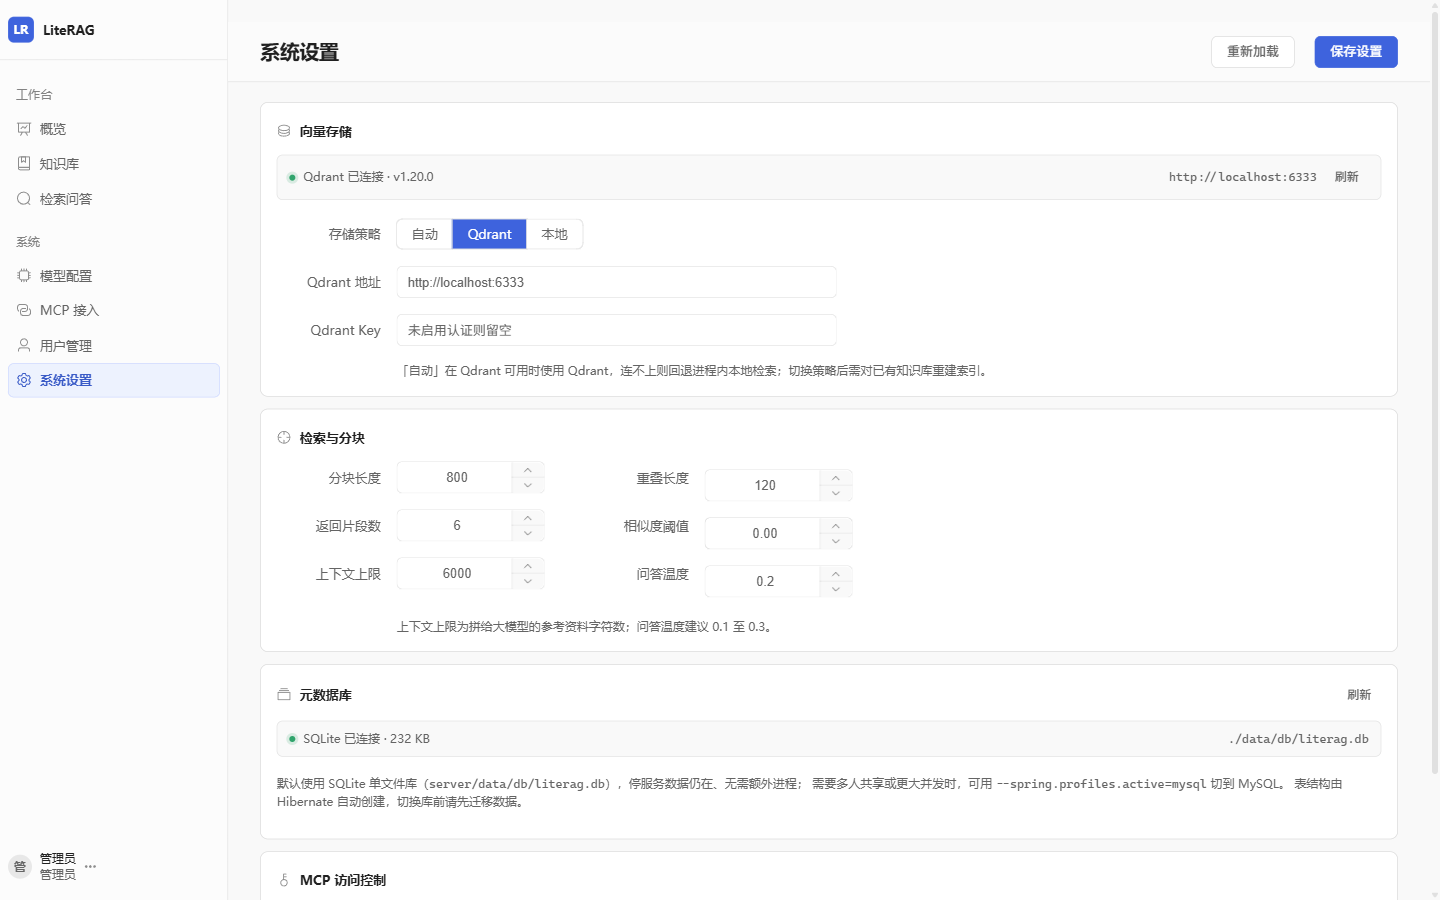
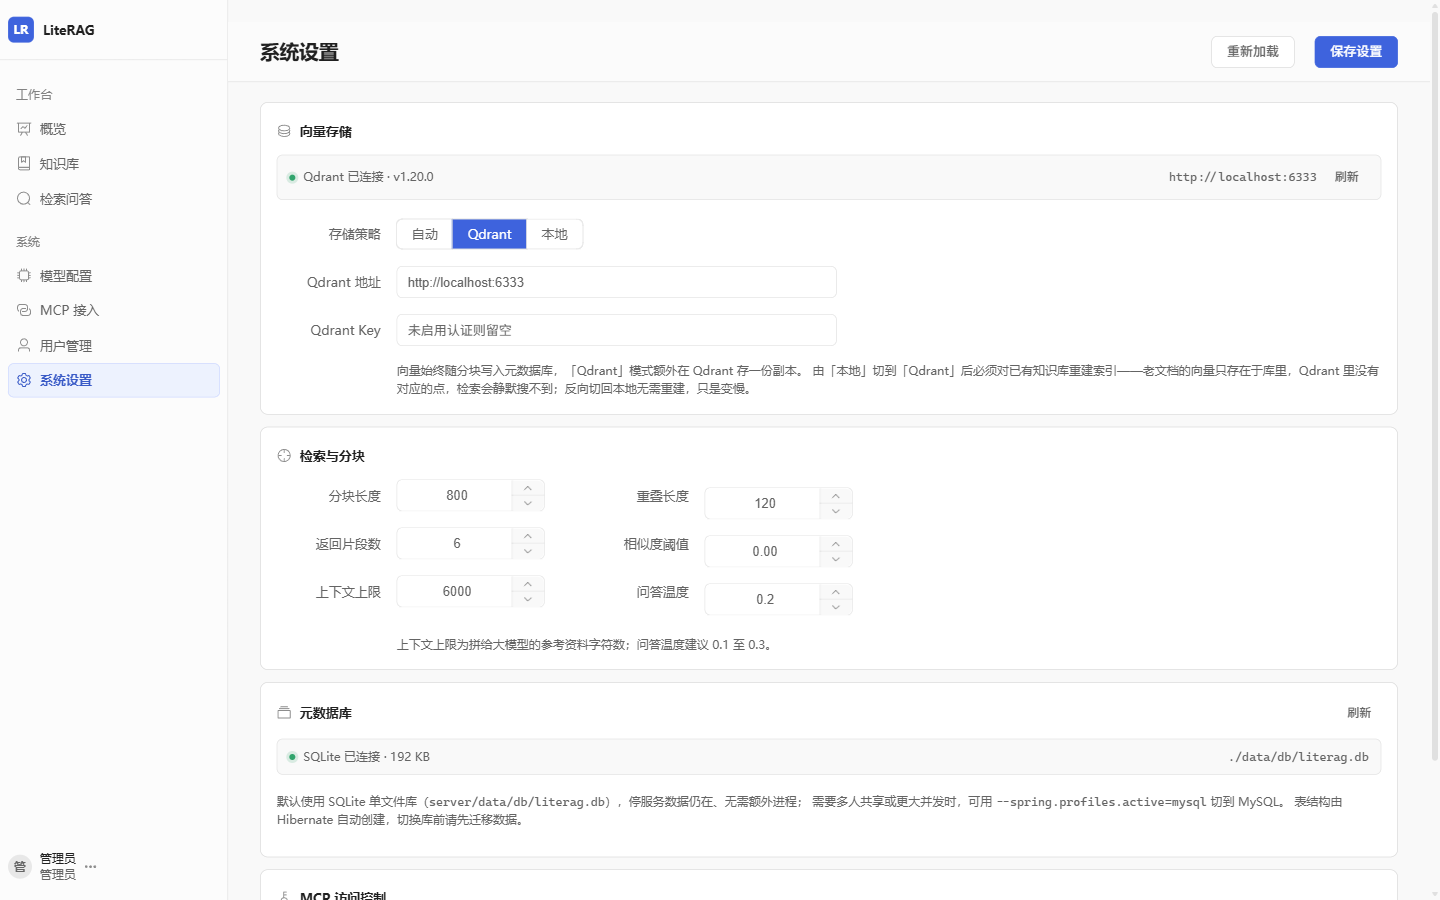
fix(settings): 修正向量存储策略说明与切换提示的方向性错误
- 说明改为按方向区分：仅 local → qdrant 必须重建索引（老向量只在库里，
  Qdrant 无对应点，检索会静默搜不到），反向切回本地无需重建
- 策略初始值与兜底值改为 qdrant，与 application.yml 默认一致
- 「刷新」提示按生效策略区分：qdrant 直接报错 / auto 回退本地 / local 不受影响
- 保存时按切换方向给出是否重建的提示
- README 同步修正三处表述：未启动 Qdrant 不会自动回退、切换重建方向、
  向量始终写 doc_chunk.embedding
- 重拍 10-settings.png

diff --git a/web/src/views/Settings.vue b/web/src/views/Settings.vue
@@ -38,7 +38,8 @@
             <el-input v-model="form.qdrantApiKey" placeholder="未启用认证则留空" show-password class="w-lg" />
           </el-form-item>
           <p class="hint form-hint">
-            「自动」在 Qdrant 可用时使用 Qdrant，连不上则回退进程内本地检索；切换策略后需对已有知识库重建索引。
+            向量始终随分块写入元数据库，「Qdrant」模式额外在 Qdrant 存一份副本。
+            由「本地」切到「Qdrant」后必须对已有知识库重建索引——老文档的向量只存在于库里，Qdrant 里没有对应的点，检索会静默搜不到；反向切回本地无需重建，只是变慢。
           </p>
         </el-form>
       </div>
@@ -119,8 +120,10 @@ const loading = ref(false)
 const saving = ref(false)
 const qdrant = ref(null)
 const db = ref(null)
+/** 已生效的策略，用于判断保存时是否发生了方向性切换 */
+const savedProvider = ref('qdrant')
 const form = reactive({
-  vectorProvider: 'auto',
+  vectorProvider: 'qdrant',
   qdrantUrl: '',
   qdrantApiKey: '',
   mcpApiKey: ''
@@ -155,10 +158,11 @@ const load = async () => {
     // /system/status 是 /settings 的超集，一次请求即可拿到设置、向量与数据库信息
     const res = await systemApi.status()
     const s = res.settings || {}
-    form.vectorProvider = s.vectorProvider || 'auto'
+    form.vectorProvider = s.vectorProvider || 'qdrant'
     form.qdrantUrl = s.qdrantUrl || 'http://localhost:6333'
     form.qdrantApiKey = s.qdrantApiKey || ''
     form.mcpApiKey = s.mcpApiKey || ''
+    savedProvider.value = form.vectorProvider
     num.chunkSize = Number(s.chunkSize || 800)
     num.chunkOverlap = Number(s.chunkOverlap || 120)
     num.defaultTopK = Number(s.defaultTopK || 6)
@@ -176,11 +180,20 @@ const refreshStatus = async () => {
   const res = await systemApi.status()
   qdrant.value = res.vector?.qdrant || null
   db.value = res.database || null
-  ElMessage[qdrant.value?.available ? 'success' : 'warning'](
-    qdrant.value?.available
-      ? `Qdrant 连接正常${qdrant.value.version ? '（v' + qdrant.value.version + '）' : ''}`
-      : 'Qdrant 无法连接，检索会回退到本地向量库'
-  )
+  if (qdrant.value?.available) {
+    ElMessage.success(
+      `Qdrant 连接正常${qdrant.value.version ? '（v' + qdrant.value.version + '）' : ''}`
+    )
+    return
+  }
+  // 连不上的后果取决于当前生效的策略，不能一律说「回退」
+  if (savedProvider.value === 'local') {
+    ElMessage.warning('Qdrant 无法连接，当前为「本地」策略，检索不受影响')
+  } else if (savedProvider.value === 'auto') {
+    ElMessage.warning('Qdrant 无法连接，「自动」策略下检索会回退到本地向量库')
+  } else {
+    ElMessage.error('Qdrant 无法连接，当前为「Qdrant」策略，检索会直接报错')
+  }
 }
 
 const genKey = () => {
@@ -207,7 +220,16 @@ const save = async () => {
     }
     const res = await systemApi.saveSettings(payload)
     qdrant.value = res.vector?.qdrant || null
-    ElMessage.success('设置已保存')
+    const prev = savedProvider.value
+    savedProvider.value = form.vectorProvider
+    // 只有「本地 → Qdrant」会缺索引点，其余方向切换不需要重建
+    if (prev !== 'qdrant' && form.vectorProvider === 'qdrant') {
+      ElMessage.warning('已切换到 Qdrant：此前入库的文档在 Qdrant 中没有索引，请对知识库重建索引')
+    } else if (prev === 'qdrant' && form.vectorProvider !== 'qdrant') {
+      ElMessage.success('已切换，向量已随分块落库，无需重建索引')
+    } else {
+      ElMessage.success('设置已保存')
+    }
   } finally {
     saving.value = false
   }

diff --git a/README.md b/README.md
@@ -48,7 +48,7 @@ Vue 3 + Spring Boot 3 + Qdrant，`java -jar` 一个进程同时提供 UI、REST 
 | --- | --- |
 | 后端 | Spring Boot 3.2.5 / Java 17 / Spring Data JPA / SQLite（默认，单文件免安装）/ MySQL（可选） |
 | 解析 | Apache POI（docx、xlsx、pptx）、PDFBox（pdf） |
-| 向量库 | Qdrant 1.20.0（`tools/qdrant/` 下的 Windows / Linux x64 二进制，或 Docker），未启动时回退内置本地向量库 |
+| 向量库 | Qdrant 1.20.0（`tools/qdrant/` 下的 Windows / Linux x64 二进制，或 Docker）；未启动时默认策略会直接报错，可在设置里切换为进程内本地检索 |
 | 前端 | Vue 3 + Vite 5 + Element Plus + Pinia + Vue Router（hash 路由） |
 | 预览 | 浏览器原生 PDF、docx-preview、SheetJS、POI 自绘 HTML |
 | 协议 | MCP 2025-06-18（Streamable HTTP）/ 2024-11-05（HTTP+SSE） |
@@ -156,7 +156,7 @@ bash scripts/qdrant.sh restart
 
 也可以直接用 Docker：`docker compose up -d qdrant`（数据落 `data/qdrant`，与本地二进制互不影响）。
 
-- `literag.vector.provider` 支持 `qdrant`（默认）/ `local` / `auto`（Qdrant 不可用则回退本地），也可在「系统设置」里切换，**切换后需对已有知识库重建索引**，向量不会自动迁移。
+- `literag.vector.provider` 支持 `qdrant`（默认，连不上直接报错）/ `local`（进程内余弦扫描）/ `auto`（探测 Qdrant，不可用则回退本地），也可在「系统设置」里切换。向量在任何模式下都随分块写进元数据库，Qdrant 模式只是额外存一份副本，因此 **`local` → `qdrant` 必须对已有知识库重建索引**（老文档在 Qdrant 里没有点，会静默搜不到），**`qdrant` → `local` 无需重建**，只是检索变慢。
 - REST 端口 `6333`，`http://localhost:6333/dashboard` 有自带管理界面。liteRAG 用内置 REST 客户端访问，无需 SDK；系统设置与概览页会显示 `v1.20.0` 这类实际版本号。
 - collection 在首次写入时按实际向量维度创建，相似度统一使用 Cosine，score 语义（0~1，越大越相关）与本地引擎一致。
 - 旧版本配置过 ChromaDB 的，启动时 `vectorProvider=chroma` 会自动按 `qdrant` 处理，`chroma*` 遗留设置项被忽略。
@@ -238,7 +238,7 @@ liteRAG/
 └─ docker-compose.yml
 ```
 
-运行期数据落盘：元数据 `server/data/db/literag.db`（SQLite 单文件）、原始文件 `server/data/uploads/{kbId}/...`、Qdrant 数据在 `tools/qdrant/storage/`（Docker 版在 `data/qdrant/`）；本地回退时向量存在 `doc_chunk.embedding` 字段。
+运行期数据落盘：元数据 `server/data/db/literag.db`（SQLite 单文件）、原始文件 `server/data/uploads/{kbId}/...`、Qdrant 数据在 `tools/qdrant/storage/`（Docker 版在 `data/qdrant/`）；向量始终存在 `doc_chunk.embedding` 字段，Qdrant 模式为额外副本。
 
 ## 常见问题
 
@@ -246,7 +246,7 @@ liteRAG/
 
 **上传后一直处理中？** 看 `data/server.log`，常见原因是文件加密或扫描件 PDF 没有文本层（本系统不含 OCR）。
 
-**向量库连不上？** `auto` 策略先试 Qdrant，连不上回退本地；显式指定 `qdrant` 时连不上会直接报错。先 `bash scripts/qdrant.sh start`（Windows 可直接跑 `tools\qdrant\qdrant.exe`），修好后在系统设置切回，并重建索引。
+**向量库连不上？** `qdrant` 策略下检索会直接报错（默认），`auto` 会静默回退本地、`local` 不受影响。先 `bash scripts/qdrant.sh start`（Windows 可直接跑 `tools\qdrant\qdrant.exe`），修好后在系统设置切回。注意掉线期间若走过本地回退入库，那批文档在 Qdrant 里没有索引点，需要重建索引才能被检索到。
 
 **端口被占用？** `java -jar ... --server.port=9090`，同时改 `web/vite.config.js` 的代理目标。
 
